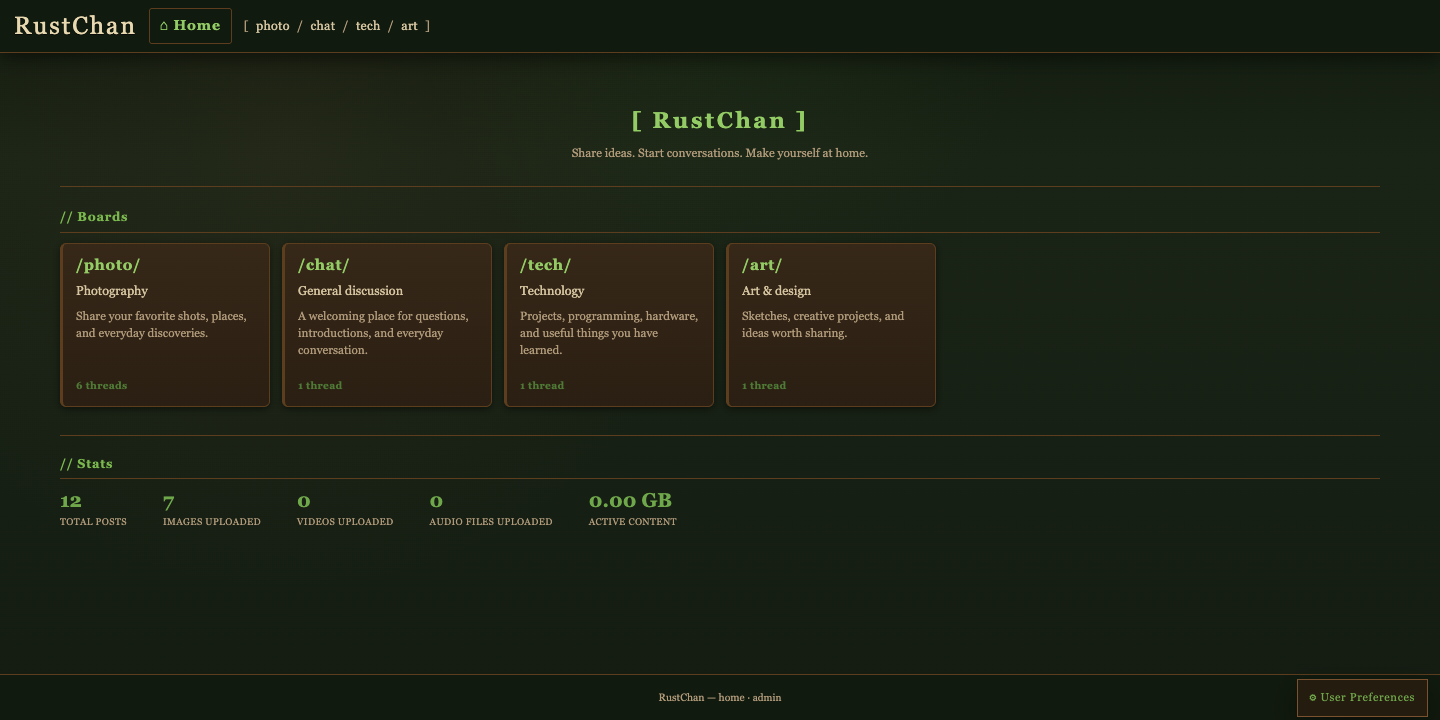
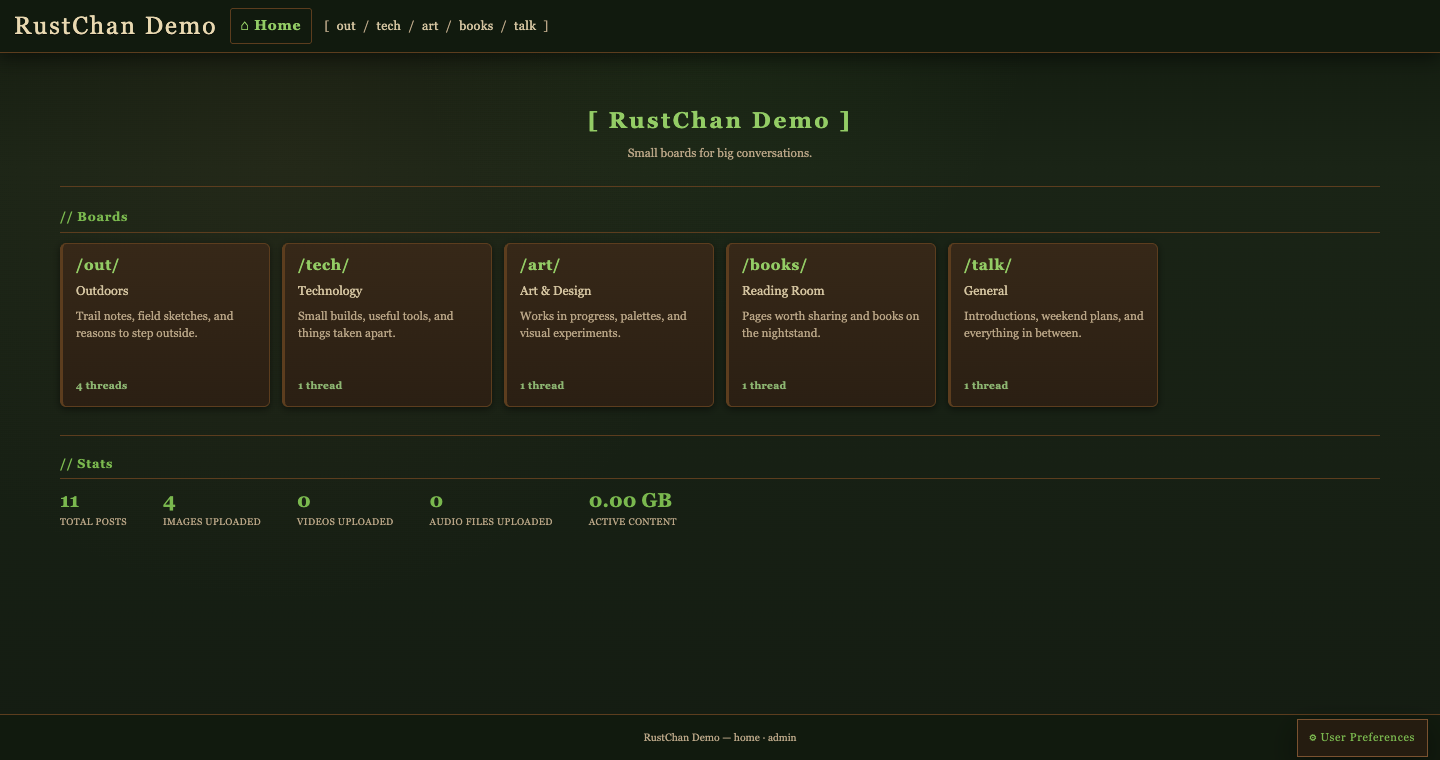
Refresh RustChan dependencies and demo screenshots

diff --git a/src/db/boards.rs b/src/db/boards.rs
@@ -380,7 +380,7 @@ pub fn get_all_boards_with_stats(
     let out = stmt
         .query_map([], |row| {
             let board = map_board(row)?;
-            let thread_count: i64 = row.get(33)?;
+            let thread_count: i64 = row.get("thread_count")?;
             Ok(crate::models::BoardStats {
                 board,
                 thread_count,

diff --git a/CHANGELOG.md b/CHANGELOG.md
@@ -7,6 +7,19 @@ working branch and are not part of the latest published download.
 
 ## Unreleased
 
+- Long threads show which replies you’re reading and let you move to older or
+  newer replies without jumping straight back to the latest posts.
+- Board search shows what you searched for and how many posts matched. If
+  nothing matches, it suggests what to try and gives you a way back to the board.
+- Poll choices are easier to add and remove with a keyboard, and the form tells
+  you when you’ve reached the limit.
+- Moderators can read full report reasons on phones without scrolling sideways,
+  and report links take them straight to the right post.
+- Fixed the thread counts shown on home-page board cards.
+- Updated the README screenshots to show the current desktop and phone layouts.
+- Updated compatible dependencies, including fixes for cookie handling and URL
+  parsing.
+
 - Fixed optional terminal relaunch on Windows for executable paths containing
   percent signs or shell metacharacters. If the relaunch fails, the original
   process continues startup.

diff --git a/README.md b/README.md
@@ -98,7 +98,8 @@ Prefer another installation method? Use [Docker](docs/containers.md) or
 
 ## Screenshots
 
-Captured from the published v1.5.0 Docker image, these views show a demonstration site with sample conversations and original sample artwork, using the default Forest theme.
+These views were captured from the current development build of RustChan with
+the default Forest theme, fictional conversations, and original sample artwork.
 
 **Home page — choose a board and see what is happening.**
 
